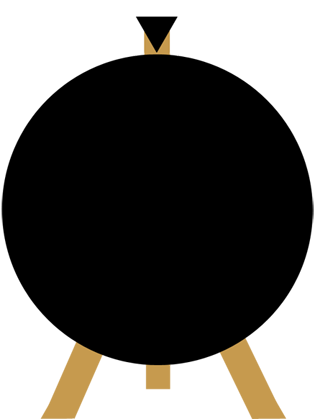
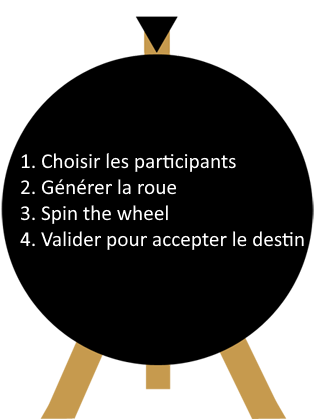
ajout du mode équiprobable et aaméliorations visuelles

diff --git a/winwheel.html b/winwheel.html
@@ -34,22 +34,28 @@
     </head>
     <body>
         <div align="center">
-            <h1>Who's in charge of the ligne chaude today ? </h1>
+            <h1>Who's in charge of the ligne chaude today ? <span id="Winner"></span></h1>
             <br />
             <table cellpadding="0" cellspacing="0" border="0">
+				<tr>
+				<td colspan="2"></td>				
+					<div class="power_controls">
+						<button onClick="createWheel();" id="wheelBuilder" >Générer la roue</button>
+						<button onClick="startSpin();" id="wheelSpinner" class="notActiv" >Spiner la roue</button>
+						<button onClick="validateSpin();" id="wheelOK" style="display:none;" >Valider</button>
+					</div>
+				</tr>
                 <tr>
-					<td>
+					<td id="participantsCell">
+						<h3>Choix des participants</h3>
 						<ul id="activList">
 						</ul>
-					</td>					
-                    <td>
-                        <div class="power_controls">
-                            <br />
-                            <img id="spin_button" src="misc/spin_off.png" alt="Spin" onClick="startSpin();" />
-                            <br /><br />
-                            <img id="spin_button" src="misc/spin_on.png" alt="Spin" onClick="createWheel();" />
-                        </div>
-                    </td>
+						<h3>Mode équiprobable</h3>
+						<label class="switch">
+							<input type="checkbox" id="wheelMode">
+							<span class="slider round" onClick="changeMode()"></span>
+						</label>
+					</td>
                     <td width="318" height="418" class="the_wheel" align="center" valign="center">
                         <canvas id="canvas" width="315" height="418">
                             <p style="{color: white}" align="center">Sorry, your browser doesn't support canvas. Please try another.</p>
@@ -59,19 +65,23 @@
             </table>
         </div>
         <script>
-			const mode = "NO_DB";
+			const configuration = "NO_DB";
+			let wheelMode = "default";
 			let theWheel; 
+            let wheelSpinning = false;	
 			let listBizDevTeam;
 			let listParticipants;
 			let idParticipants;
 			const url = "http://localhost:81/api/users/hotline";	
+            const audioTick = new Audio('misc/tick.mp3');  // Create audio object and load tick.mp3 file.
   			getUsers();
 			//[{"id":1,"first_name":"C","last_name":"R","wheel_value":20,"color":"#F07D88"},{"id":2,"first_name":"s","last_name":"r","wheel_value":7,"color":"#FFF00F"},{"id":3,"first_name":"JR","last_name":"C","wheel_value":9,"color":"#F00FFF"}]
 			
+			//Construit la roue à partir des participants qui sont sélectionnés
 			function createWheel(){
 				if(idParticipants.length <2){
+					alert("Il faut au moins deux participants pour pouvoir tourner la roue"); 
 					console.log("pas assez de personnes:"+idParticipants.length);
-					console.log(idParticipants);
 					return false;
 				}
 				
@@ -94,27 +104,33 @@
 						'spins'    : 2,//15,     // Number of complete spins.
 						'callbackFinished' : alertPrize,
 						'callbackSound'    : playSound,   // Function to call when the tick sound is to be triggered.
-						'soundTrigger'     : 'segment'        // Specify segments are to trigger the sound, the other option is 'pin'.
+						'soundTrigger'     : 'pin'        // Specify segments are to trigger the sound, the options are 'pin' or 'segment'.
+					},
+					'pins' :
+					{
+						'number' : 16   // Number of pins. They space evenly around the wheel.
 					}
-				});
+				});	
+                document.getElementById('wheelSpinner').className = "activ";
+				document.getElementById('wheelOK').style.display = "none";	
+                wheelSpinning = false;
 			}
            
-            // Vars used by the code in this page to do power controls.
-            let wheelPower    = 0;
-            let wheelSpinning = false;
-
+ 
             // -------------------------------------------------------
             // Click handler for spin button.
             // -------------------------------------------------------
             function startSpin()
             {
+				if(document.getElementById('wheelSpinner').className == "notActiv"){
+					//On ne fait rien 
+					return;
+				}
 				// Ensure that spinning can't be clicked again while already running.
-                if (wheelSpinning == false) {    
+                if (wheelSpinning == false) { 
 					resetWheel();
                     // Disable the spin button so can't click again while wheel is spinning.
-                    document.getElementById('spin_button').src       = "misc/spin_off.png";
-                    document.getElementById('spin_button').className = "";
-
+					document.getElementById('wheelSpinner').className = "notActiv";
                     // Begin the spin animation by calling startAnimation on the wheel object.
                     theWheel.startAnimation();
 
@@ -127,16 +143,15 @@
             // This function is called when the segment under the prize pointer changes
             // we can play a small tick sound here like you would expect on real prizewheels.
             // -----------------------------------------------------------------
-            let audio = new Audio('misc/tick.mp3');  // Create audio object and load tick.mp3 file.
 
             function playSound()
             {
                 // Stop and rewind the sound if it already happens to be playing.
-                audio.pause();
-                audio.currentTime = 0;
+                audioTick.pause();
+                audioTick.currentTime = 0;
 
                 // Play the sound.
-                audio.play();
+                audioTick.play();
             }
             // -------------------------------------------------------
             // Function for reset button.
@@ -156,24 +171,32 @@
             // -------------------------------------------------------
             function alertPrize(indicatedSegment)
             {
-                // Do basic alert of the segment text. You would probably want to do something more interesting with this information.
-                //alert("The wheel stopped on " + indicatedSegment.text);
-                wheelSpinning = false;  
+				//On indique qui est l'heureux élu à l'utilisateur, on attend sa validation avant de pousser les modifs en base
+				document.getElementById('Winner').innerHTML = indicatedSegment.text;
+				if(wheelMode == "default"){
+					document.getElementById('wheelOK').style.display = "inline-block";
+				}else{
+					wheelSpinning = false;
+					document.getElementById('wheelSpinner').className = "activ";
+					document.getElementById('wheelOK').style.display = "none";
+				}
+            }
+            
+            function validateSpin(){
+				// L'API attend la liste du gagnant et un tableau des autres participants
+                // le calcul des nouvelles pondérations se fait dans le back, on récupère ensuite les nouvelles valeurs
                 let nbPersonne = listBizDevTeam.length;
-                //var ratio = 1/(nbPersonne-1);
                 let winnerId; 
 				let participantsID = [];
 				var winner = theWheel.getIndicatedSegmentNumber();
 				for (let x = 1; x < theWheel.segments.length; x ++) {
 					if(x == winner){
 						winnerId = theWheel.segments[x].id;
-						//listBizDevTeam[theWheel.segments[x].id].valeur = listBizDevTeam[theWheel.segments[x].id].valeur - nbPersonne +1;
 					}else{
 						participantsID.push( theWheel.segments[x].id);
-						//listBizDevTeam[theWheel.segments[x].id].valeur = listBizDevTeam[theWheel.segments[x].id].valeur + 1;						
 					}
 				}
-				if(mode !== "NO_DB"){
+				if(configuration !== "NO_DB"){
 					let xhr = new XMLHttpRequest();
 					xhr.open('POST', url, true);
 					xhr.withCredentials = true;
@@ -182,15 +205,18 @@
 					xhr.onload = function() {
 						if (xhr.status != 200) { // analyze HTTP status of the response
 							console.log('Error'+xhr.status+':'+xhr.statusText);
-						} else { // show the result
-							//console.log(xhr.response);
-							//On récupère les users mis à jour
+						} else { 
+							//On récupère les utilisateurs mis à jour
 							getUsers();
 						}
 					};
-				}				
-            }
+				}
+				wheelSpinning = false;
+                document.getElementById('wheelSpinner').className = "activ";
+				document.getElementById('wheelOK').style.display = "none";		
+			}
             
+                        
             function computeSegments(){
 				//On créé la liste des participants à partir des ID séléctionnés				
 				listParticipants = [];
@@ -215,20 +241,22 @@
 					}else{
 						var pourcentage = (360-totalPourcentage);
 					}
-					var candidat = {'text':listParticipants[j].first_name, 'size': pourcentage, 'fillStyle' : listParticipants[j].color, 'id':listParticipants[j].id}
+					if(wheelMode == "default"){
+						var candidat = {'text':listParticipants[j].first_name, 'size': pourcentage, 'fillStyle' : listParticipants[j].color, 'id':listParticipants[j].id};
+					}else{
+						var candidat = {'text':listParticipants[j].first_name, 'fillStyle' : listParticipants[j].color, 'id':listParticipants[j].id};
+					}
 					mySegments.push(candidat);
 					totalPourcentage+=pourcentage;
 				}
 				return mySegments;
 			}
 			
-			/** Get all the users and display them so we can set who's here today
-			 * 
-			 */
+			//Récupération des utilisateurs depuis l'API, construction de la liste des participants
 			function getUsers(){
 				idParticipants = [];
-				if(mode === "NO_DB"){					
-					//Simulate Data when no DB integration
+				if(configuration === "NO_DB"){					
+					//Données de démo quand on est en mode déconnecté, sans l'API
 					listBizDevTeam = [{"id":1,"first_name":"C","last_name":"R","wheel_value":20,"color":"#F07D88"},{"id":2,"first_name":"s","last_name":"r","wheel_value":7,"color":"#FFF00F"},{"id":3,"first_name":"JR","last_name":"C","wheel_value":9,"color":"#F00FFF"}];
 				}else{
 					let xhr = new XMLHttpRequest();
@@ -236,14 +264,14 @@
 					xhr.withCredentials = true;
 					xhr.send(null);
 					xhr.onload = function() {
-						if (xhr.status != 200) { // analyze HTTP status of the response
+						if (xhr.status != 200) { 
 							console.log('Error'+xhr.status+':'+xhr.statusText);						
-						} else { // show the result
+						} else {
 							listBizDevTeam = JSON.parse(xhr.response);
 						}	
 					};					
 				}
-				console.log(JSON.stringify(listBizDevTeam));
+				
 				let ulData = "";
 				for(let u=0; u<listBizDevTeam.length; u++){									
 					let elt = document.createElement('li');
@@ -254,7 +282,6 @@
 					document.getElementById('activList').appendChild(elt);
 					idParticipants.push(listBizDevTeam[u].id); 
 				}
-				
 			}
 			
 			function changeState(id){
@@ -269,11 +296,14 @@
 					currentElt.className = "activ";
 					idParticipants.push(id);
 				}
-			}
-			
-			
+			}	
+			function changeMode() {
+				if(wheelMode == "default"){
+					wheelMode = "equiproba";
+				}else{
+					wheelMode = "default";
+				}
+			}	
         </script>
     </body>
 </html>
-<!--file:///C:/Users/crced/Documents/dev/hotline/index.html#
-http://dougtesting.net/winwheel/docs/tut5_add_remove_segments-->

diff --git a/misc/custom.css b/misc/custom.css
@@ -1,6 +1,8 @@
 ul#activList{
 	min-width: 250px;
 	list-style-type: none;
+	padding-left: 0;
+	padding-right: 20px;
 	
 }
 ul#activList li{
@@ -16,3 +18,83 @@ ul#activList li.notActiv{
 	background: #ffe5e5;
 	font-style: italic;
 }
+div.power_controls button{
+	border: none;
+	color: white;
+	padding: 15px 32px;
+	text-align: center;
+	text-decoration: none;
+	display: inline-block;
+	font-size: 16px;
+	font-weight: bold;
+}
+#wheelBuilder{
+	background-color: #147529;
+}
+#wheelSpinner.notActiv{
+	color: black;	
+}
+#wheelSpinner.activ{
+	color: black;
+	background-color: #e8e841;	
+}
+#wheelOK{
+	background-color: #147529;
+}
+
+#participantsCell {
+	vertical-align: top;
+	padding-top: 20px;
+}
+/***** The slider *****/
+.switch {
+  position: relative;
+  display: inline-block;
+  width: 60px;
+  height: 34px;
+}
+.switch input {
+  opacity: 0;
+  width: 0;
+  height: 0;
+}
+.slider {
+  position: absolute;
+  cursor: pointer;
+  top: 0;
+  left: 0;
+  right: 0;
+  bottom: 0;
+  background-color: #ccc;
+  -webkit-transition: .4s;
+  transition: .4s;
+}
+.slider:before {
+  position: absolute;
+  content: "";
+  height: 26px;
+  width: 26px;
+  left: 4px;
+  bottom: 4px;
+  background-color: white;
+  -webkit-transition: .4s;
+  transition: .4s;
+}
+input:checked + .slider {
+  background-color: #2196F3;
+}
+input:focus + .slider {
+  box-shadow: 0 0 1px #2196F3;
+}
+input:checked + .slider:before {
+  -webkit-transform: translateX(26px);
+  -ms-transform: translateX(26px);
+  transform: translateX(26px);
+}
+.slider.round {
+  border-radius: 34px;
+}
+.slider.round:before {
+  border-radius: 50%;
+}
+/***** EO The slider *****/
